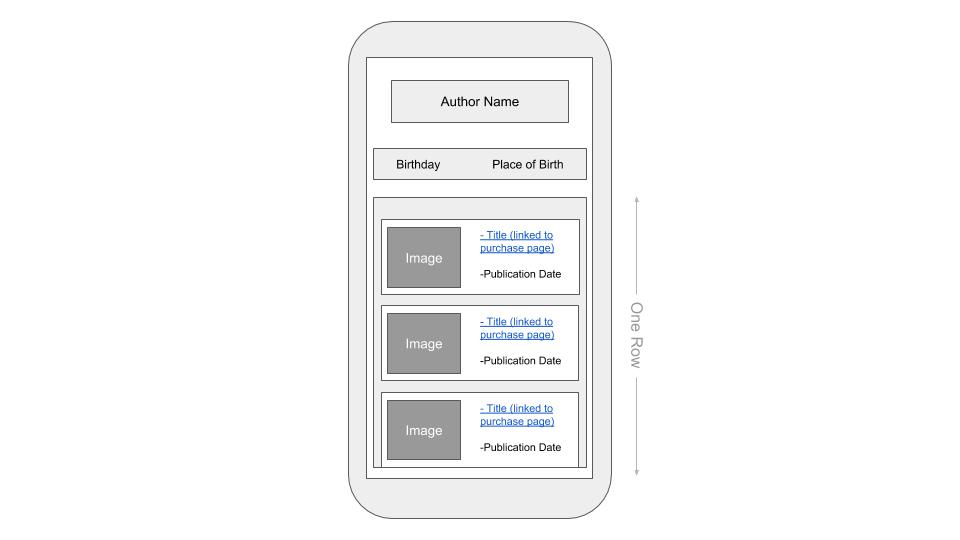
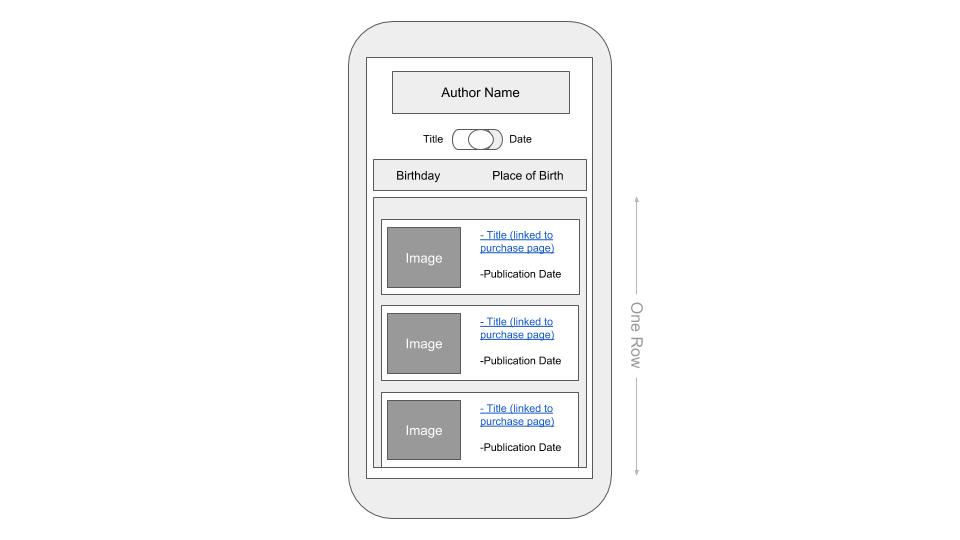
first attempt at setting up the html and css structure

Changed region(s): [[0.4062, 0.1481, 0.5938, 0.3556]]

diff --git a/vanilla-ish_solution/index.html b/vanilla-ish_solution/index.html
@@ -1,0 +1,63 @@
+<!DOCTYPE html>
+<html>
+    <head>
+        <meta charset="UTF-8">
+        <title>title</title>
+        <link href="https://fonts.googleapis.com/css?family=K2D|Raleway" rel="stylesheet">
+        <link rel="stylesheet" href="https://cdnjs.cloudflare.com/ajax/libs/materialize/1.0.0/css/materialize.min.css">
+        <script src="https://cdnjs.cloudflare.com/ajax/libs/materialize/1.0.0/js/materialize.min.js"></script>
+        <link rel="stylesheet" type="text/css" href="styles.css">
+    </head>
+    <body class="amber lighten-5">
+        <div class="row">
+            <div class="col 2 offset-s10">
+                <span class="flow-text">
+                    <div class="switch">
+                        <label>
+                            Title 
+                            <input type="checkbox">
+                            <span class="lever brown lighten-4"></span>
+                            Date
+                        </label>
+                    </div>
+                </span>
+            </div>
+        </div>
+
+        <div class="row">
+            <div class="col s12 author"><h1>Author</h1></div>
+        </div>
+
+        <div class="container">
+            <div class="row brown lighten-4 author-info">
+                <div class="col s6"><h2>Birthday:</h2></div>
+                <div class="col s6"><h2>Place of Birth:</h2></div>
+            </div>
+        </div>
+
+        <div class="row teal lighten-4 books-container">
+            <div class="col s6 books">
+                <div class="col s12 book white ">
+                    <div class="col s3 book-thumbnail"><img src="https://images-na.ssl-images-amazon.com/images/I/51oQX1lEFAL._AC_US218_.jpg" alt="image A"></div>
+                    <div class="col s9 book-content white">
+                        <ol>
+                            <li><span class="book-label">Title</span>: {{ title }}</li>
+                            <li><span class="book-label">Publication Date</span>: {{ date }}</li>
+                        </ol>
+                    </div>
+                </div>
+                <div class="col s12 book white">
+                    <div class="col s3 book-thumbnail"><img src="https://images-na.ssl-images-amazon.com/images/I/51bXpL9GKBL._AC_US218_.jpg" alt="image B"></div>
+                        <div class="col s9 book-content white">
+                            <ol>
+                                <li><span class="book-label">Title</span>: {{ title }}</li>
+                                <li><span class="book-label">Publication Date</span>: {{ date }}</li>
+                            </ol>
+                        </div>
+                    </div>
+                </div>
+            </div>
+        </div>
+    </body>
+    <script src="app.js"></script>
+</html>

diff --git a/vanilla-ish_solution/styles.css b/vanilla-ish_solution/styles.css
@@ -1,0 +1,47 @@
+h1{
+	font-size: 6em;
+}
+
+h2{
+	font-size: 2em;
+}
+
+p, li{
+	font-size: 1.5em;
+}
+
+.container{
+	width: 100%;
+}
+
+.author{
+    font-family: 'K2D', sans-serif;
+    /* font-size: 8em; */
+    text-align: center; 
+    /* padding-top: 5%; */
+}
+
+.author-info{
+	text-align: center;
+}
+
+.books-container{
+	margin: 2%;
+}
+
+.book{
+	margin: 4%;
+}
+
+.book-thumbnail{
+	width: 50%;
+	height: 50%;
+	margin-top: 2%;
+	margin-bottom: 2%;
+}
+
+.book-label{
+	text-decoration: underline;
+}
+
+
